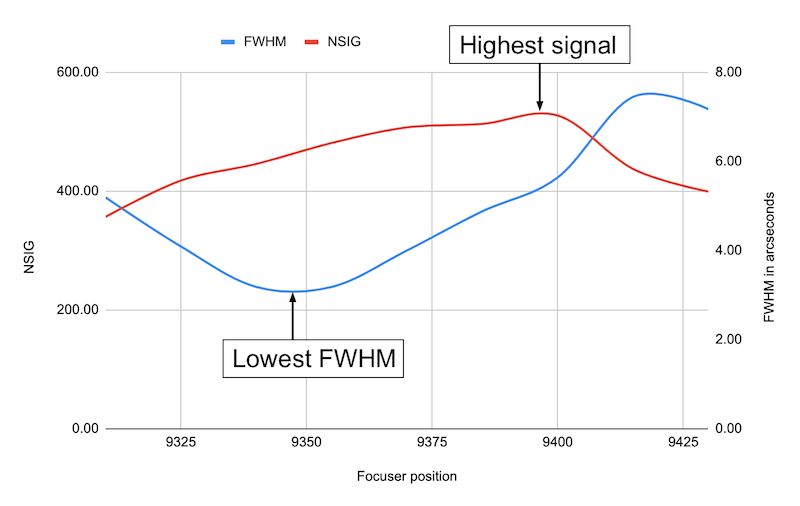
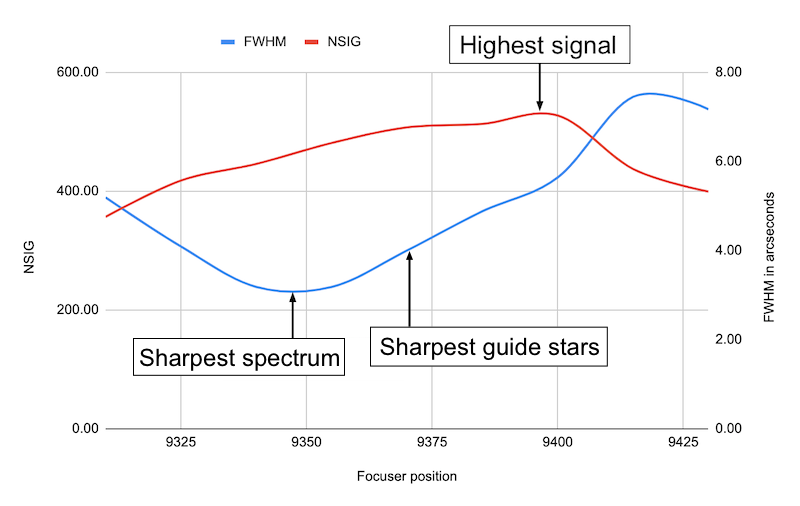
Updated README

Changed region(s): [[0.1562, 0.504, 0.75, 0.7708]]

diff --git a/README.md b/README.md
@@ -71,7 +71,7 @@ HD097633-9325.fits: FWHM = 4.60px -> 4.09" | NSIG = 417.71
 HD097633-9310.fits: FWHM = 5.83px -> 5.19" | NSIG = 356.66
 ```
 
-If you did not include the focuser position in the file name, you will have to remember which focus position you had when capturing each image. In the execution above, focuser position `9330` clearly gave the sharpest / brightest spectrum.
+If you did not include the focuser position in the file name, you will have to remember which focus position you had when capturing each image.
 
 Once you are done, and you can simply press `q` to exit the program.
 
